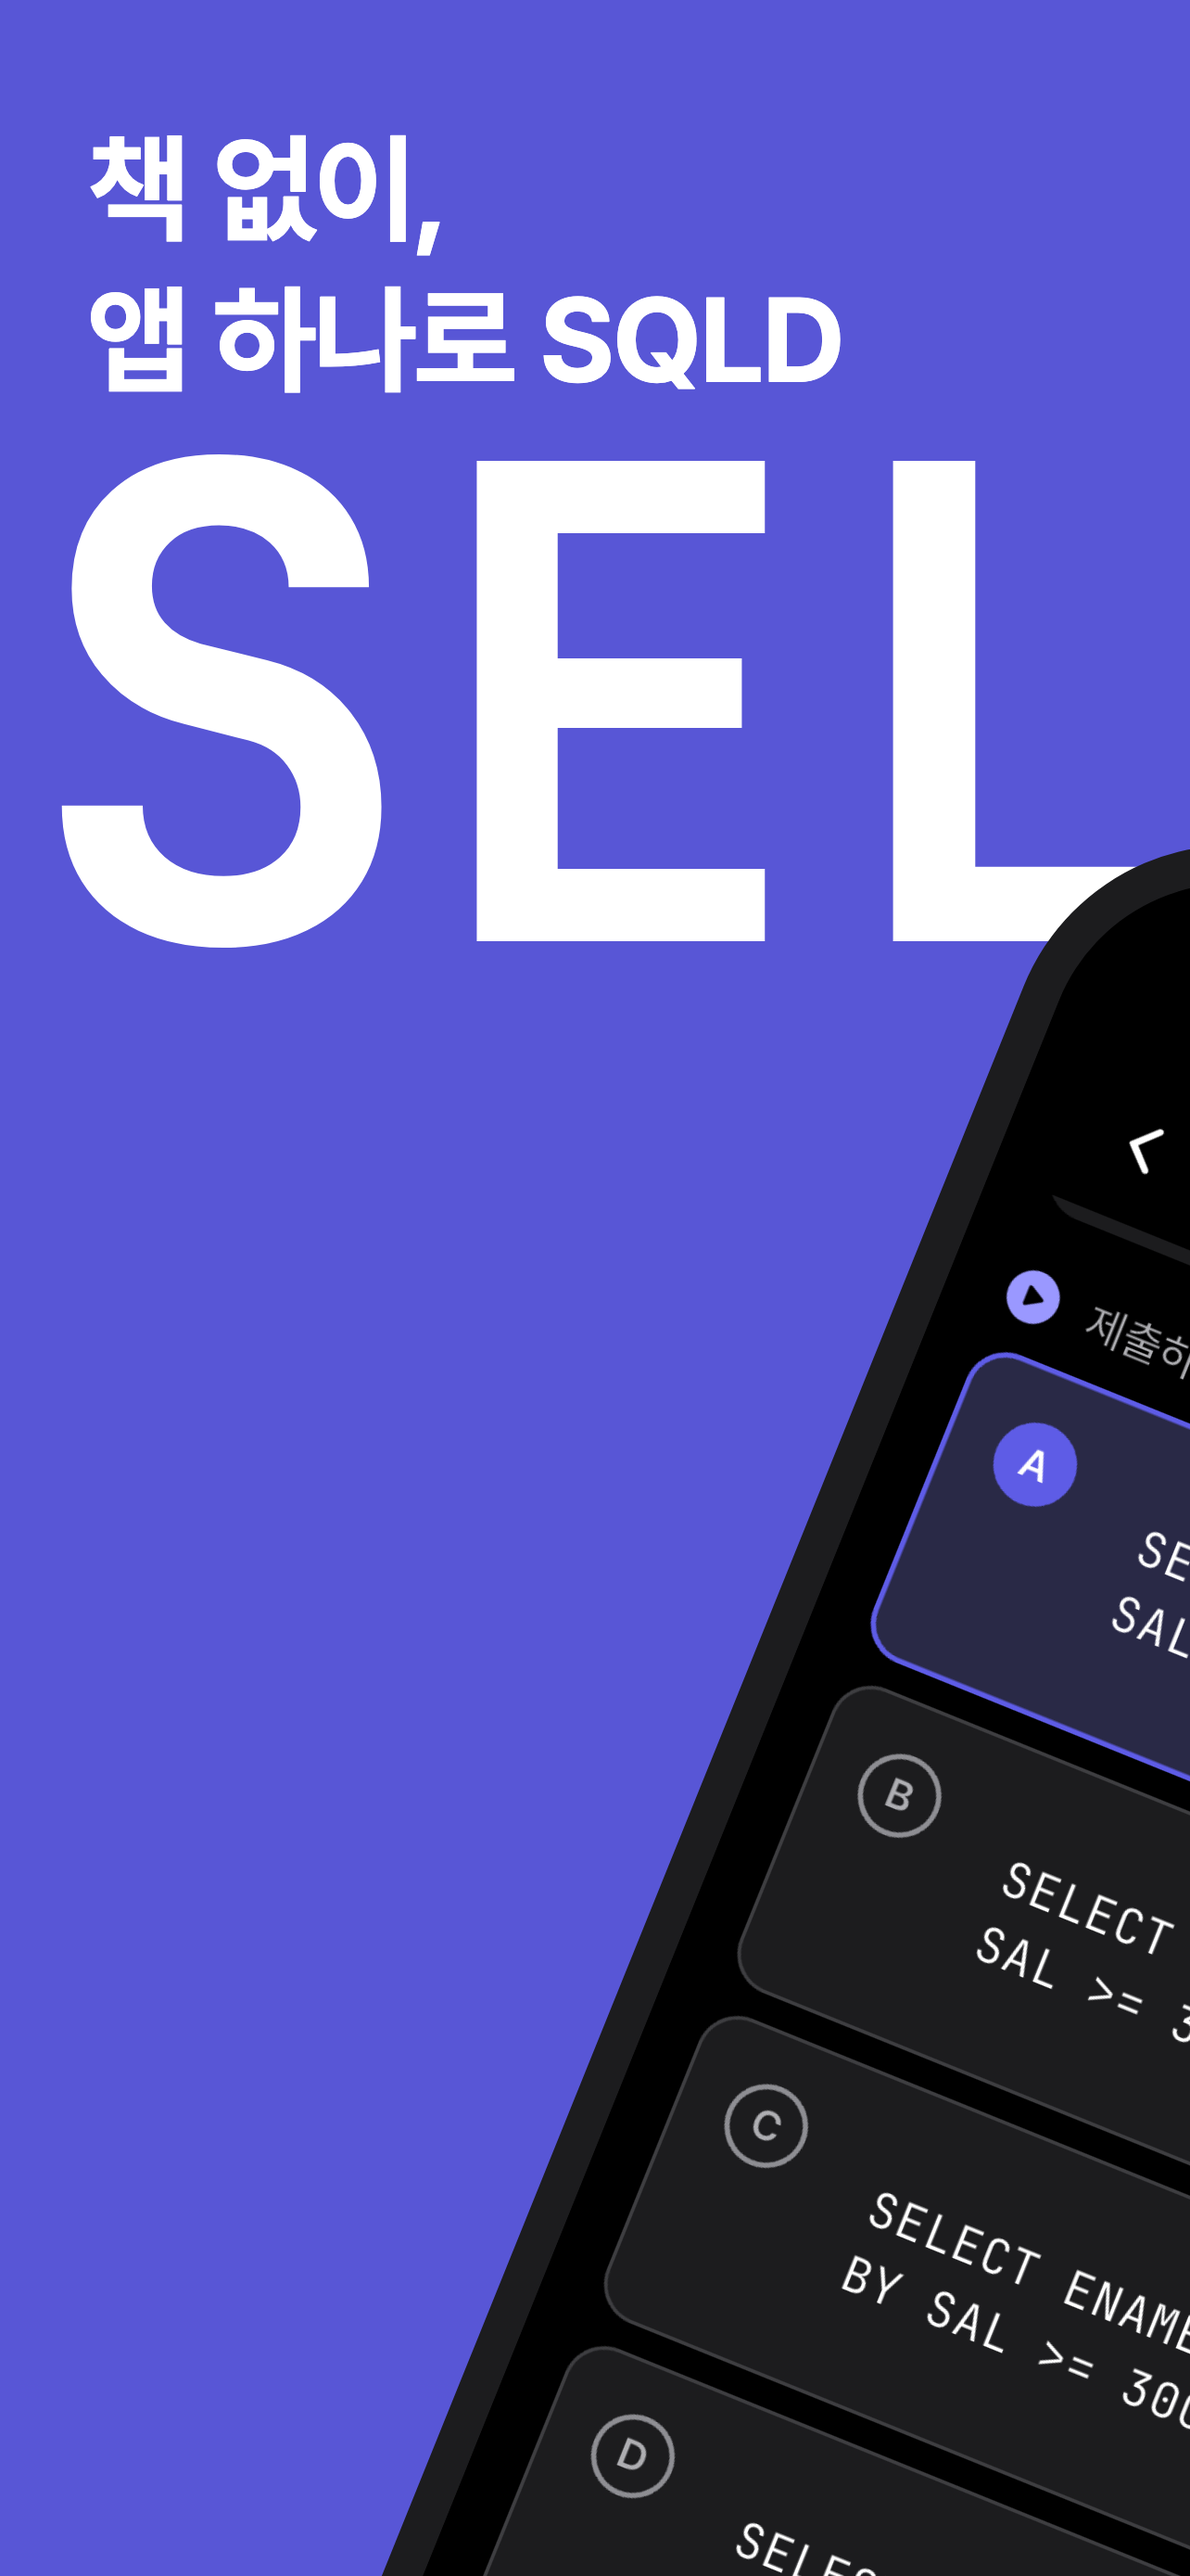
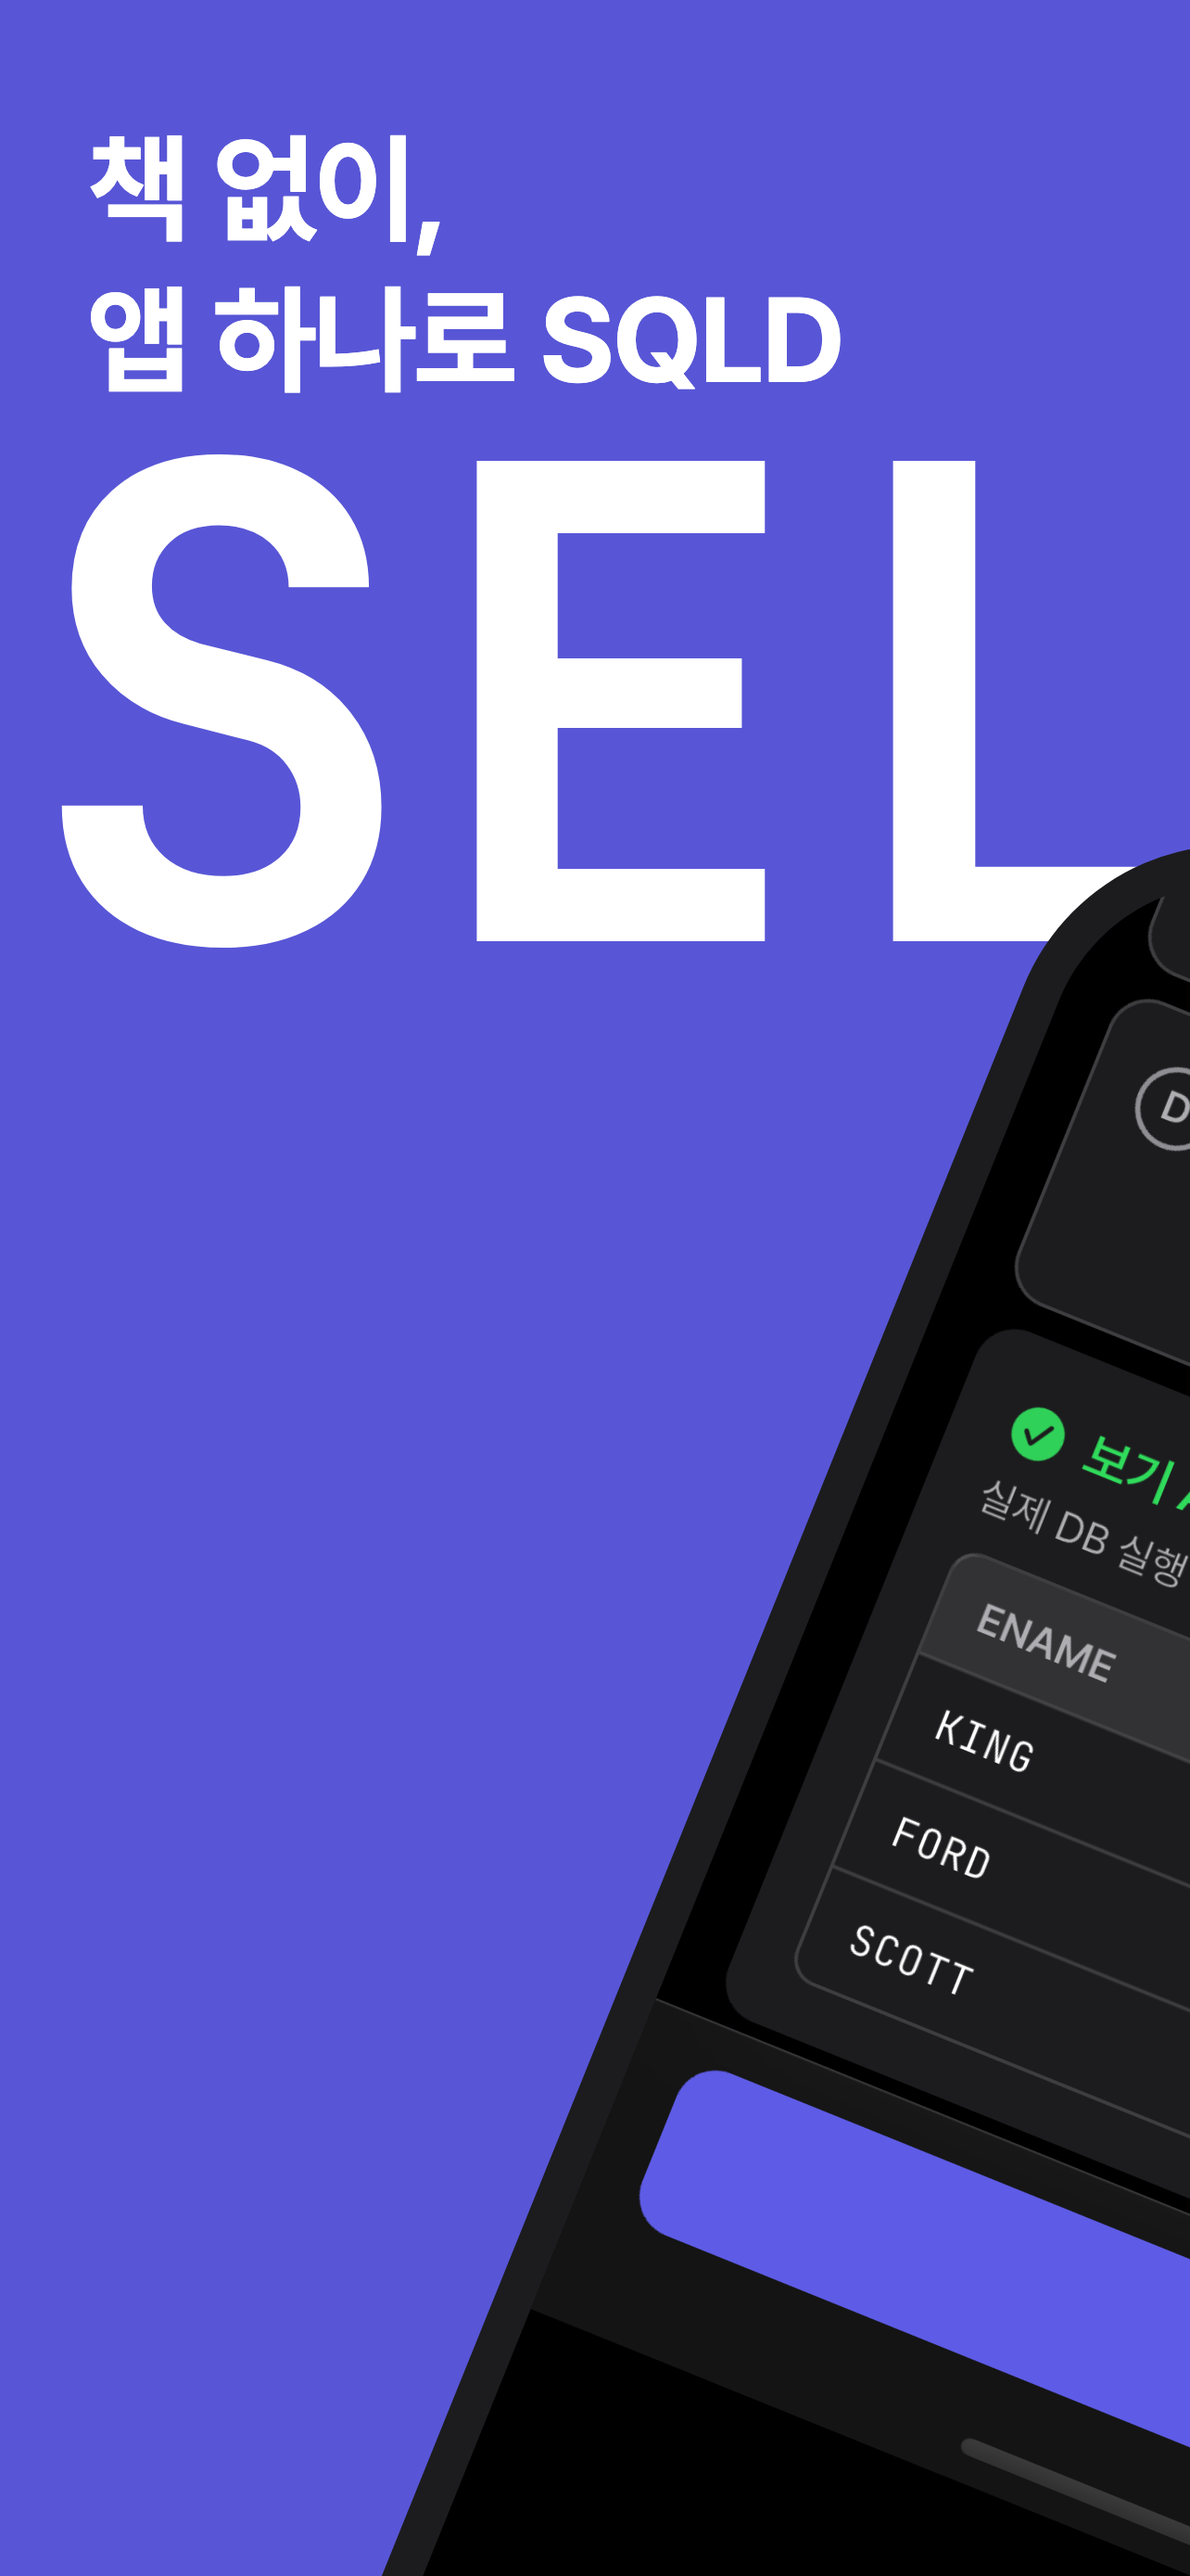
fix: 스토어 이미지 1, 2장에 SQL 실행 결과가 보이도록 조정 https://github.com/Twin-Fang/passQL/issues/776
Claude-Session: https://claude.ai/code/session_011gM66nQCMijcgJ6MkZprBY

Changed region(s): [[0.405, 0.3405, 1.0, 1.0], [0.9969, 0.7739, 1.0, 0.8049]]

diff --git a/app/tool/store_art/pair_template.html b/app/tool/store_art/pair_template.html
@@ -26,7 +26,7 @@
   .phone { position: absolute; left: calc(50% - var(--u) * 118); top: calc(var(--u) * 150); width: calc(var(--u) * 236);
            padding: calc(var(--u) * 6); background: var(--phone); border-radius: calc(var(--u) * 36); transform: rotate(22deg); }
   .screen { width: 100%; aspect-ratio: {{shot_aspect}}; border-radius: calc(var(--u) * 30);
-            background: #000 url("{{shot}}") top / 100% auto no-repeat; }
+            background: #000 url("{{shot}}") 0 -{{shot_offset}}px / 100% auto no-repeat; }
 </style>
 </head>
 <body>

diff --git a/app/tool/store_art/render.py b/app/tool/store_art/render.py
@@ -85,6 +85,14 @@ def shot_offset(target: dict, align: str, aspect: float) -> int:
     return max(0, int(screen_height - visible_height))
 
 
+def pair_shot_offset(target: dict, aspect: float) -> int:
+    """이어지는 두 장의 폰: 실행 결과가 보이도록 캡처 아래쪽을 슬라이드 아래에 맞추는 양(px). 비율은 pair_template.html 의 폰 값과 같음"""
+    unit = target["width"] / 190
+    screen_height = unit * 224 / aspect
+    visible_height = target["height"] - unit * 156
+    return max(0, int(screen_height - visible_height))
+
+
 def render_pair(target_name: str, target: dict, scene: dict) -> list[Path]:
     """이어지는 두 장: 넓은 캔버스를 찍어 좌우로 잘라 저장"""
     width, height, gap = target["width"], target["height"], target["gap"]
@@ -93,6 +101,7 @@ def render_pair(target_name: str, target: dict, scene: dict) -> list[Path]:
     page = fill_template("pair_template.html", {
         "width": str(width), "height": str(height), "gap": str(gap), "canvas_width": str(canvas_width),
         "font_dir": FONT_DIR.as_uri(), "shot": shot.as_uri(), "shot_aspect": f"{read_aspect(shot):.6f}",
+        "shot_offset": str(pair_shot_offset(target, read_aspect(shot))),
         "keyword": html.escape(scene["keyword"]),
         "headline_left": scene["headlines"][0], "headline_right": scene["headlines"][1],
     })

diff --git a/app/tool/store_art/test_render.py b/app/tool/store_art/test_render.py
@@ -8,7 +8,7 @@ HERE = Path(__file__).resolve().parent
 sys.path.insert(0, str(HERE))
 
 from PIL import Image
-from render import keyword_font_size, pair_crop_boxes
+from render import keyword_font_size, pair_crop_boxes, pair_shot_offset
 
 SCENES = HERE / "scenes.json"
 
@@ -44,6 +44,17 @@ def test_outputs_exist_with_exact_size():
     with Image.open(promo / "feature-graphic.png") as image:
         assert image.size == (1024, 500)
         assert image.mode == "RGB"
+
+
+def test_pair_shows_execute_result():
+    # s1_execute 의 "실행 성공" 카드는 캡처 높이 64% 지점에서 시작: 폰 위쪽 끝보다 아래에 있어야 보인다
+    targets = json.loads(SCENES.read_text(encoding="utf-8"))["targets"]
+    aspect = 1206 / 2622
+    for name, target in targets.items():
+        unit = target["width"] / 190
+        screen_height = unit * 224 / aspect
+        offset = pair_shot_offset(target, aspect)
+        assert 0 < offset <= screen_height * 0.64, (name, offset, screen_height)
 
 
 def test_root_readme_shows_all_scenes():
